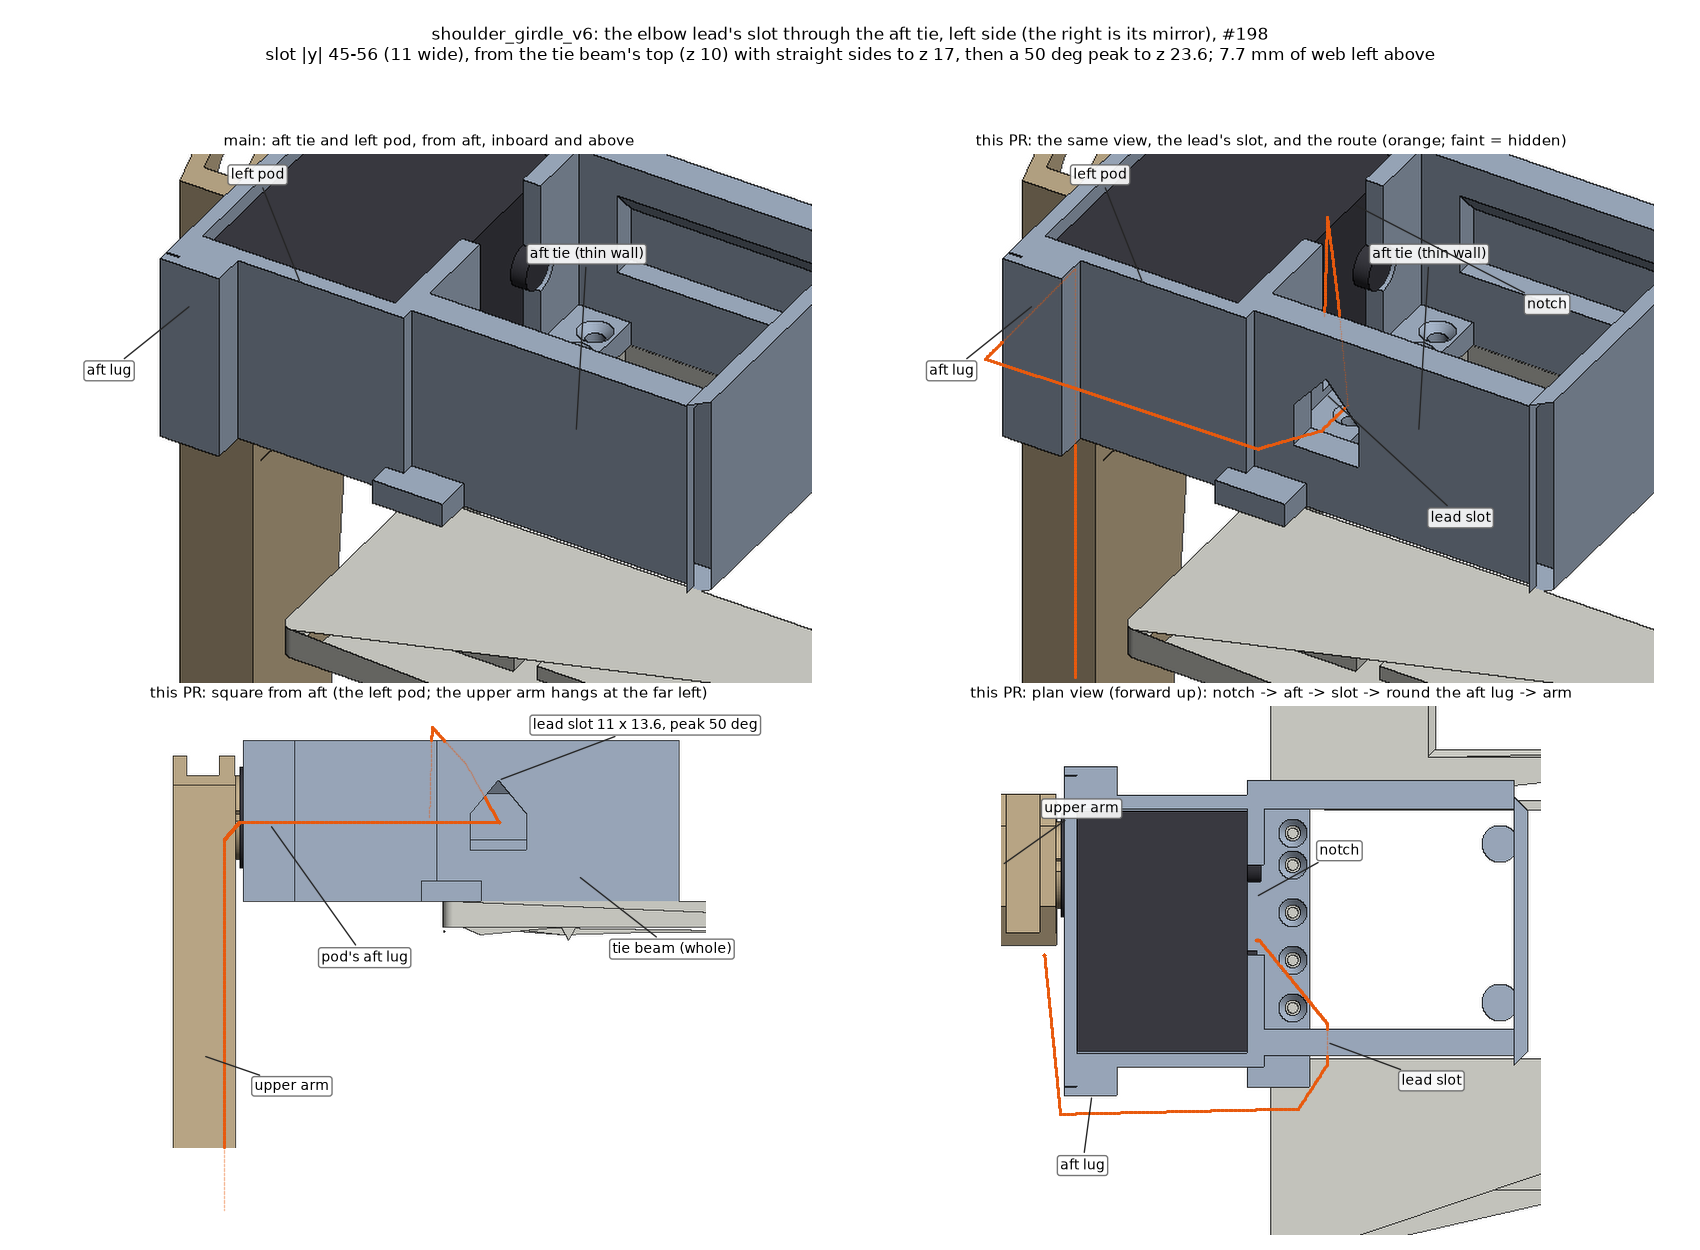
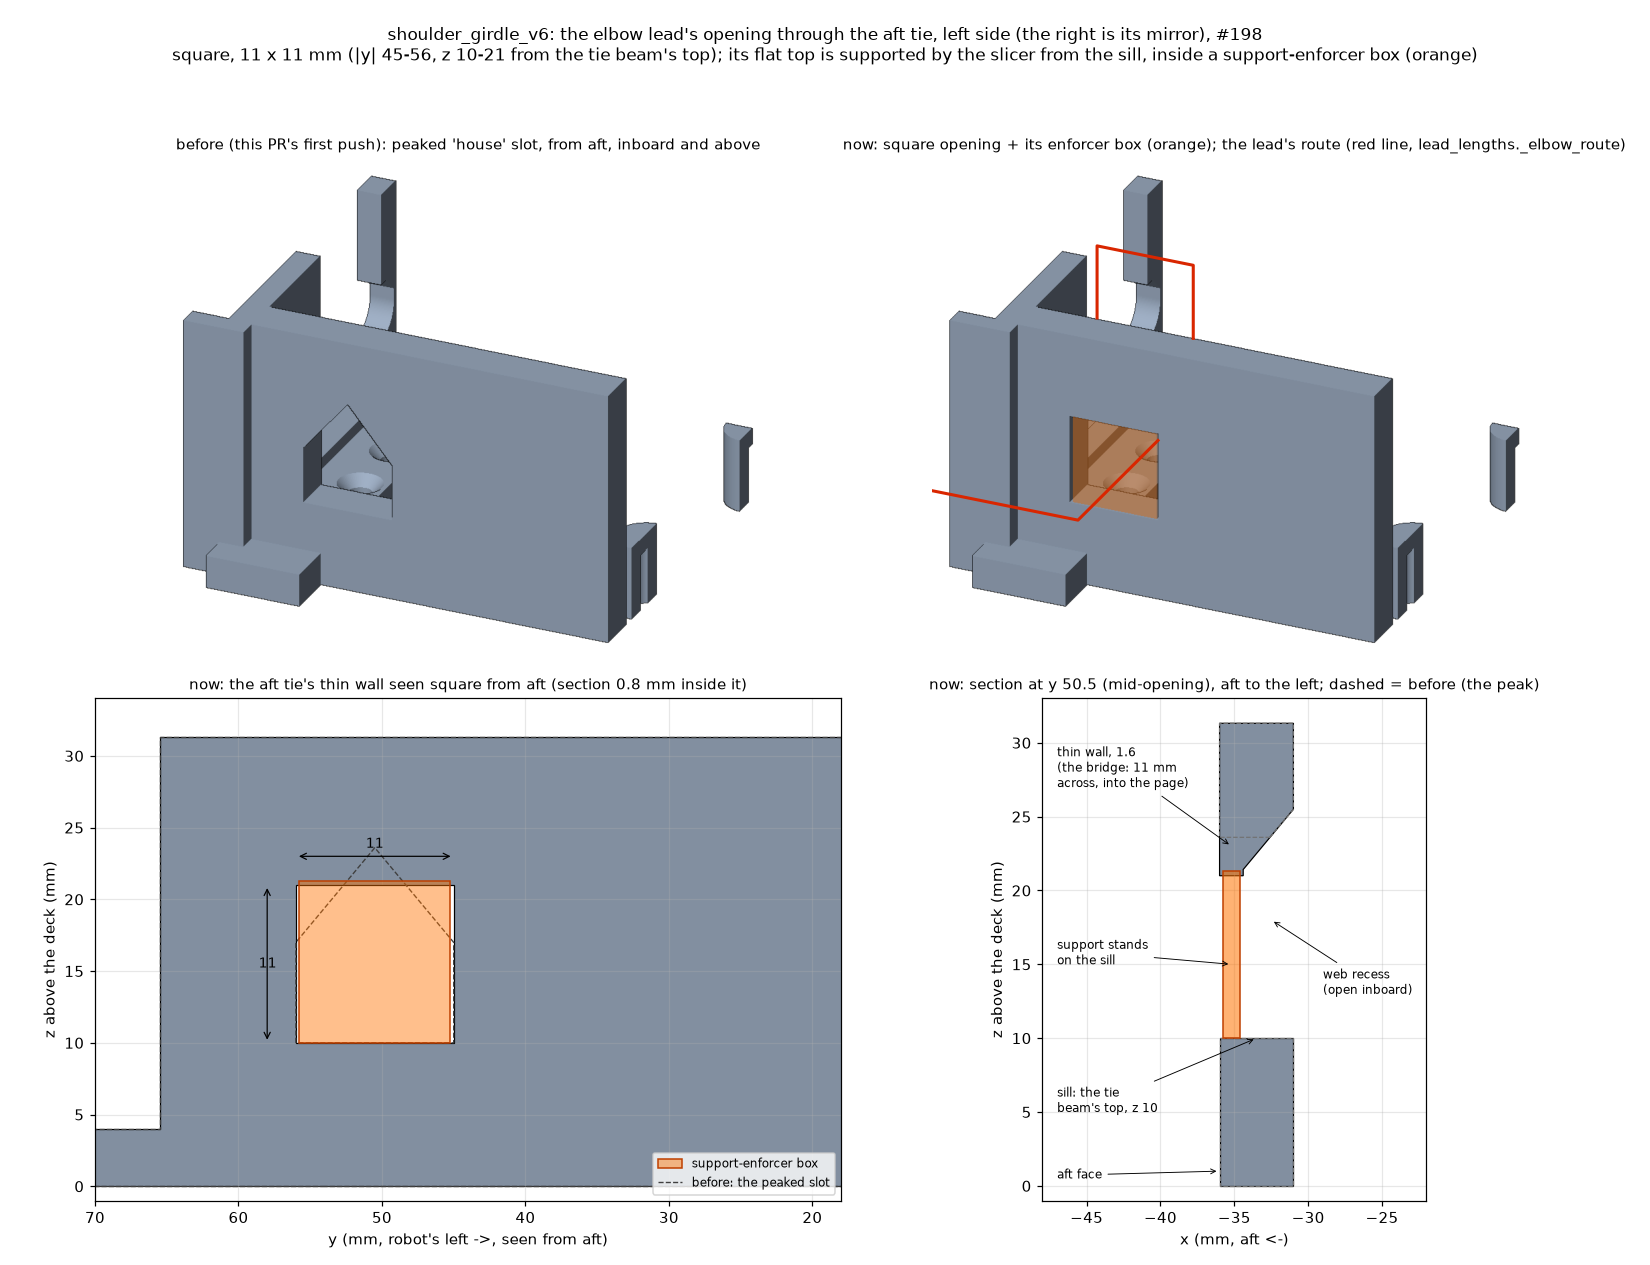
Girdle: the elbow lead's opening square, supported inside enforcer boxes (#198)
Tom on #228 (2026-11-06): "make the opening square, not 'house shaped' and
use the bridging mask for support of the opening". The aft tie's opening
beside each pod is now 11 x 11 mm (|y| 45-56, z 10-21 from the tie beam's
top), a hole through the 1.6 mm thin wall alone (its top stays under the web
recess's roof). Its flat top spans 11 mm, more than a bridge, so the slicer
supports it from the opening's sill inside one support-enforcer box per side
(shoulder_girdle_v6.support_enforcers(), in print_settings.json, pinned by
tests/test_slice.py), the torso's and yaw carrier's convention: manual
supports, snug, not build plate only. The girdle_neck plate's other parts
share those settings with no box, so they print unsupported. The lead's
route and length are unchanged (floor and width are the same).

diff --git a/cad/v6/shoulder_girdle_v6.py b/cad/v6/shoulder_girdle_v6.py
@@ -123,13 +123,20 @@ IDENT = np.eye(3)
 RY_YDOWN = np.array([(1, 0, 0), (0, 0, 1), (0, -1, 0)], float)       # model +Y -> print -Z
 PRINT_ORIENT = {"shoulder_girdle_v6": (IDENT, "base down on the deck face, walls up"),
                 "shoulder_cheek_v6": (RY_YDOWN, "flat, outer face down (the left pod's pose; x2)")}
-# NO SUPPORTS (Tom, 2026-11-01: "let's get rid of the windows front and back.
+# SUPPORTS IN THE ELBOW LEAD'S OPENINGS ONLY. The trapezius webs are thin
+# walls (Tom, 2026-11-01: "let's get rid of the windows front and back.
 # Instead let's just put a thin wall there so we don't have to worry about
-# print supports"). The four trapezius-web windows were 34 mm flat-topped
-# spans, supported inside enforcer boxes; they are thin walls now, the neck
-# tube's aft window is gone, and every other roof on the part -- the web
-# recesses behind those walls, the platform detents -- is a 50 deg slope.
-SUPPORT_NOTE = None
+# print supports"), the neck tube's aft wall is closed, and every other roof
+# on the part -- the web recesses behind those walls, the platform detents --
+# is a 50 deg slope. The one flat ceiling is the top of the elbow lead's
+# square opening through the aft tie (lead_slot(), #198): 11 mm across, wider
+# than a bridge, so the slicer supports it from the opening's sill inside one
+# enforcer box per side (support_enforcers(), Tom, 2026-11-06: "use the
+# bridging mask for support of the opening"); nothing is modelled for it.
+SUPPORT_NOTE = ("supports on, manual: only inside the two support-enforcer boxes "
+                "(support_enforcers()), under the flat top of the elbow lead's square "
+                "opening through the aft tie, standing on the opening's sill (the tie "
+                "beam's top)")
 ROOF_RISE = 1.2   # a self-supporting roof rises 1.2 mm per mm it overhangs: 50 deg, clear of
                   # the 45 deg line check_printability calls one way or the other on rounding
 
@@ -166,18 +173,28 @@ TIE_H = 10.0
 WEB_T = 1.6                           # the trapezius web's thin wall, flush with the band's OUTER face
 WEB_REC_Y = (22.0, 56.0)              # the lightening recess behind it (|y| band) ...
 WEB_REC_TOP = 25.5                    # ... from the beam's top up to here at the open (inner) face
-# the elbow lead's slot through the AFT tie's web (#198; Tom, 2026-11-04: "aft
-# is correct"). The shoulder-to-elbow lead rises out of the inboard wall's
-# notch (x -12..0), runs aft inside the girdle to the tie, out through this
-# slot, round the pod's aft lug and down the back of the upper arm's web. It
-# sits at the recess's outboard end, so its outboard face is the recess's own
-# and the 6.5 mm of web between it and the pod's inboard wall stays whole;
-# its floor is the beam's top, so the beam stays whole too. The lead's plug
-# has to pass (whichever end is threaded through): D.WIRE_PLUG_W 9 wide, with
-# the arm's own 11 mm cable-window size across the slot.
+# the elbow lead's opening through the AFT tie's web (#198; Tom, 2026-11-04:
+# "aft is correct"). The shoulder-to-elbow lead rises out of the inboard
+# wall's notch (x -12..0), runs aft inside the girdle to the tie, out through
+# this opening, round the pod's aft lug and down the back of the upper arm's
+# web. It sits at the recess's outboard end, so its outboard face is the
+# recess's own and the 6.5 mm of web between it and the pod's inboard wall
+# stays whole; its floor is the beam's top, so the beam stays whole too. The
+# lead's plug has to pass (whichever end is threaded through): D.WIRE_PLUG_W
+# 9 wide, with the arm's own 11 mm cable-window size across the opening. It
+# is SQUARE, 11 x 11 (Tom, 2026-11-06: "make the opening square, not 'house
+# shaped'"): its flat top is an 11 mm span in the thin wall, supported from
+# the sill in print (SUPPORT_NOTE, support_enforcers()).
 LEAD_SLOT_Y = (WEB_REC_Y[1] - 11.0, WEB_REC_Y[1])   # |y| 45 .. 56
-LEAD_SLOT_EAVE = 17.0                 # straight sides from the beam's top (TIE_H) to here, then a
-                                      # ROOF_RISE peak (+6.6, to 23.6): 7.7 mm of web left above it
+LEAD_SLOT_Z = (TIE_H, TIE_H + 11.0)                 # z 10 .. 21: square
+# its top stays under the recess's roof where that roof meets the thin wall
+# (25.5 - 1.2 * 3.4 = 21.42), so the opening is a hole in the thin wall alone
+# and its ceiling is that wall's 1.6 mm, not a tunnel through the band
+assert LEAD_SLOT_Z[1] < WEB_REC_TOP - ROOF_RISE * (TIE_X[1] - TIE_X[0] - WEB_T), \
+    "the elbow lead's opening would cut into the web recess's roof"
+BRIDGE_OK = 8.0        # check_printability: a ceiling this wide bridges with no support
+ENF_INSET = 0.25       # an enforcer box keeps this far inside an opening's faces (torso_v8's)
+ENF_INTO = 0.3         # ... and reaches this far into its ceiling
 # No flare under the pod's outboard edge any more (Tom, 2026-11-01): it was
 # a 45 deg chamfer for the one-piece girdle, which printed that edge base-down;
 # the cheek prints flat, and the edges stay square.
@@ -378,16 +395,29 @@ def _cheek_left():
 
 
 def lead_slot(sgn):
-    """The elbow lead's slot (#198) through the whole aft tie band, +y side
-    (sgn +1) or -y: straight sides from the beam's top to LEAD_SLOT_EAVE, then
-    a peaked top rising ROOF_RISE on both sides, so it prints unsupported.
-    Behind the thin wall it opens into the web's lightening recess, and above
-    the recess's sloped roof it runs through the band as a short tunnel."""
-    y0, y1 = LEAD_SLOT_Y
-    peak = LEAD_SLOT_EAVE + ROOF_RISE * (y1 - y0) / 2
-    prof = [(sgn * y0, TIE_H), (sgn * y1, TIE_H), (sgn * y1, LEAD_SLOT_EAVE),
-            (sgn * (y0 + y1) / 2, peak), (sgn * y0, LEAD_SLOT_EAVE)]
-    return parts.wedge_x(prof, TIE_X[0] - 1.0, TIE_X[1] + 1.0)
+    """The elbow lead's square opening (#198) through the aft tie's thin wall,
+    +y side (sgn +1) or -y: LEAD_SLOT_Y across, LEAD_SLOT_Z from the beam's
+    top up. The cut runs through the whole band, but behind the thin wall it
+    is all the web recess's air, so it opens only the wall; its flat top is
+    supported in print (support_enforcers())."""
+    y0, y1 = sorted((sgn * LEAD_SLOT_Y[0], sgn * LEAD_SLOT_Y[1]))
+    return parts.box(TIE_X[0] - 1.0, TIE_X[1] + 1.0, y0, y1, *LEAD_SLOT_Z)
+
+
+def support_enforcers():
+    """shoulder_girdle_v6's support-enforcer boxes, model frame (it prints
+    IDENT, base down), rounded as cad/v6/print_settings.json carries them:
+    one per elbow lead opening, whose flat top spans more than a bridge. Each
+    keeps ENF_INSET inside the thin wall's two faces and the opening's sides,
+    stands on the sill (the tie beam's top) and reaches ENF_INTO into the
+    ceiling -- torso_v8's window boxes, the right way up."""
+    assert LEAD_SLOT_Y[1] - LEAD_SLOT_Y[0] > BRIDGE_OK
+    x0, x1 = TIE_X[0] + ENF_INSET, TIE_X[0] + WEB_T - ENF_INSET
+    boxes = []
+    for sgn in (1, -1):
+        y0, y1 = sorted((sgn * (LEAD_SLOT_Y[0] + ENF_INSET), sgn * (LEAD_SLOT_Y[1] - ENF_INSET)))
+        boxes.append([x0, x1, y0, y1, LEAD_SLOT_Z[0], LEAD_SLOT_Z[1] + ENF_INTO])
+    return [[round(v, 2) for v in b] for b in boxes]
 
 
 def shoulder_girdle_v6(pads=True):
@@ -424,8 +454,9 @@ def shoulder_girdle_v6(pads=True):
     # that keeps the weight down. The recess sits above the beam, so the beam
     # stays whole, and its roof is a ROOF_RISE slope rising from the thin wall
     # to the open inner face, so nothing on it needs support. The aft tie's
-    # web keeps one opening, the elbow lead's slot (lead_slot(), #198), at the
-    # recess's outboard end beside each pod; its top is peaked, not flat.
+    # web keeps one opening, the elbow lead's square opening (lead_slot(),
+    # #198), at the recess's outboard end beside each pod; its flat top is
+    # supported in print (support_enforcers()).
     for x0, x1, h, outer in ((CLAV_X[0], CLAV_X[1], CLAV_H, +1), (TIE_X[0], TIE_X[1], TIE_H, -1)):
         p += parts.box(x0, x1, -CLAV_HY, CLAV_HY, 0, h)
         x_mem = x1 - WEB_T if outer > 0 else x0 + WEB_T     # the thin wall's inner face

diff --git a/tests/test_slice.py b/tests/test_slice.py
@@ -381,6 +381,30 @@ def test_torso_window_enforcers_match_the_cad():
             assert z0 == pytest.approx(bb.min.Z - T.ENF_INTO) and z1 == pytest.approx(bb.max.Z)
 
 
+def test_girdle_lead_opening_enforcers_match_the_cad():
+    """The girdle's boxes are shoulder_girdle_v6's: one per elbow lead
+    opening through the aft tie's thin wall (#198), whose flat top spans more
+    than a bridge, each inside the wall's faces and the opening's sides, from
+    the sill into the ceiling. The neck floor and the cheeks share the
+    girdle_neck plate's manual supports with no box, so they print unsupported."""
+    import shoulder_girdle_v6 as SG
+    entry = SPEC["parts"]["shoulder_girdle_v6"]
+    assert entry["supports"] and entry["settings"]["support_type"] == "normal(manual)"
+    assert entry["settings"]["support_on_build_plate_only"] == "0"     # it stands on the sill
+    boxes = [e["box"] for e in entry["support_enforcers"]]
+    assert boxes == SG.support_enforcers() and len(boxes) == 2
+    y0, y1 = SG.LEAD_SLOT_Y
+    z0, z1 = SG.LEAD_SLOT_Z
+    assert y1 - y0 > SG.BRIDGE_OK and z1 - z0 == pytest.approx(y1 - y0)   # square, wider than a bridge
+    for (bx0, bx1, by0, by1, bz0, bz1), s in zip(boxes, (1, -1)):
+        assert SG.TIE_X[0] < bx0 < bx1 < SG.TIE_X[0] + SG.WEB_T             # inside the thin wall
+        assert y0 < s * by0 < y1 and y0 < s * by1 < y1 and by0 < by1
+        assert bz0 == pytest.approx(z0) and bz1 == pytest.approx(z1 + SG.ENF_INTO)
+    for part in ("neck_floor", "shoulder_cheek_v6"):
+        assert "support_enforcers" not in SPEC["parts"][part]
+    assert S.job_entry(SPEC, "girdle_neck")["settings"]["support_type"] == "normal(manual)"
+
+
 def test_forearm_pad_enforcers_match_the_cad():
     """The forearms' boxes are arm_v6's: one per elbow pad, across its tine,
     from the bed to where the pad's arc is steeper than the spec's support

diff --git a/cad/PRINT_LIST.md b/cad/PRINT_LIST.md
@@ -57,7 +57,7 @@ the slicer; see [Supports](#supports-are-the-slicers-job).
 | `head_shell` | 1 | 26.1 | 62 × 60 × 50 | base (horn plate) down; the dome is ≥ 45° | none expected | from `head.py` |
 | `head_face` | 1 | 8.6 | 62 × 56 × 6 | flat, camera bosses up | no | |
 | `neck_floor` | 1 | 4.0 | 46 × 45 × 5 | flat, bottom face down, pads and lugs up | no | the neck servo's seat (#90): screwed up into the neck tube's four bosses; the stator screws go up through it |
-| `shoulder_girdle_v6` | 1 | 88.1 | 200 × 62 × 33 | base down | no | carries both shoulder servos and the neck tube (with the four bosses for `neck_floor`); each pod is open outboard until its cheek goes on; the trapezius webs are thin walls, not windows, but for the elbow lead's peaked slot through the aft tie beside each pod |
+| `shoulder_girdle_v6` | 1 | 88.1 | 200 × 62 × 33 | base down | **in the elbow lead's two openings only**: an enforcer box each in `print_settings.json` (manual supports, snug, from the sill) | carries both shoulder servos and the neck tube (with the four bosses for `neck_floor`); each pod is open outboard until its cheek goes on; the trapezius webs are thin walls, not windows, but for the elbow lead's square opening (11 × 11 mm) through the aft tie beside each pod |
 | `shoulder_cheek_v6` | 2 | 3.0 | 58 × 30 × 2.4 | flat, outer face down | no | one part for both pods: each pod's outboard grip plate, screwed to the pod's end lugs once the servo is in ([assembly §11c](../docs/assembly.md)) |
 | `arm_upper_v6_L`, `_R` | 1 + 1 | 27.8 | 169 × 38 × 29 | on its back, web face down | no (manual supports with no enforcer box, to share the `arms` plate) | a mirror pair, L / R debossed on the outboard rail; open-front U with two end walls; grips the elbow servo |
 | `arm_head_insert_v6_L`, `_R` | 1 + 1 | 1.8 | 30 × 9 × 24 | flat, outboard face down | no | a mirror pair, not labelled (its lip goes on the horn plate's side); glued into the upper arm's head, closing its U at the front and top ([assembly §11d](../docs/assembly.md)); its own `arm_head_inserts` plate |
@@ -157,11 +157,20 @@ the slicer; see [Supports](#supports-are-the-slicers-job).
     unsupported; auto supports would put a column under the shoulder head.
 - **`shoulder_girdle_v6`**
   - It is 200 mm long, so **centre it on the bed**.
-  - **No supports.** The trapezius webs are thin walls (no windows), and every
-    roof on the part (the web recesses, the platform detents, the peaked top of
-    the elbow lead's slot through the aft tie) rises at 50°; the neck tube's
-    aft wall is closed. The `girdle_neck` plate (the girdle, the neck
-    floor and the cheek twice, square in one row) prints with supports off: 3 h 00 m, 92 g.
+  - **Supports in the elbow lead's two openings only.** Each opening through
+    the aft tie's thin wall is square, 11 × 11 mm, and its flat top spans
+    11 mm, more than a bridge: it is supported from the opening's sill (the tie
+    beam's top), inside one enforcer box per opening
+    (`shoulder_girdle_v6.support_enforcers()`, pinned by `tests/test_slice.py`;
+    manual supports, snug, not build plate only). Clear the support out of
+    each opening after the print. The rest of the part needs none: the
+    trapezius webs are otherwise thin walls, every other roof (the web
+    recesses, the platform detents) rises at 50°, and the neck tube's aft wall
+    is closed. The `girdle_neck` plate (the girdle, the neck floor and the
+    cheek twice, square in one row) slices with those manual supports; the
+    neck floor and the cheeks have no box, so they print unsupported. The
+    plate took 3 h 00 m and 92 g with supports off; it has not been re-sliced
+    with the two openings' supports.
   - Print the two cheeks on the same plate (`girdle_neck`), outer face down:
     no supports. Both are the same part, square-edged: it fits either pod.
 

diff --git a/DESIGN.md b/DESIGN.md
@@ -506,16 +506,18 @@ target.
 
 ### 5.4 Arms and shoulder girdle
 
-- **`shoulder_girdle_v6`** (one print, 98 g, 200 × 62 × 33 mm, square-edged, no supports)
+- **`shoulder_girdle_v6`** (one print, 98 g, 200 × 62 × 33 mm, square-edged, slicer supports in the elbow lead's two openings only)
   sits on the deck and holds both shoulder servos in pods open at the top and
   outboard, plus the neck servo's tube, whose side walls carry four bosses for
   the neck floor (§5.5). Ten M2.5 × 8 flat-heads into deck pilots on two edge
   rails. The neck is built into the girdle on the bench first: the neck floor's
   screws are under it once it is on the deck. The trapezius webs from the tube
   out to the pods are thin walls, with one opening on each side: the **elbow
-  lead's slot** through the aft tie beside the pod (|y| 45–56, from the tie
-  beam's top at 10 mm to a 50° peak at 23.6 mm, so it prints unsupported and
-  passes the lead's plug). The shoulder-to-elbow lead rises out of the pod's
+  lead's opening** through the aft tie beside the pod, square, 11 × 11 mm
+  (|y| 45–56, z 10–21 from the tie beam's top), which passes the lead's plug.
+  Its flat top is supported by the slicer from the opening's sill, inside an
+  enforcer box, and the support is cleared out after printing
+  ([PRINT_LIST](cad/PRINT_LIST.md)). The shoulder-to-elbow lead rises out of the pod's
   inboard notch, runs aft through it, round the pod's aft lug and down the
   back of the upper arm (#198).
 - **Each pod's outboard grip plate is its own print, the cheek**

diff --git a/docs/assembly.md b/docs/assembly.md
@@ -734,8 +734,9 @@ outboard, with the cheek off.
 1. **Plug its leads first.** They rise from the connector trench on the idler
    face and leave up through the open-topped notch in the pod's inboard wall.
    One of them is the shoulder-to-elbow lead (about 380 mm, [wiring.md](wiring.md#per-hop-lead-lengths-from-the-v6-cad-arms1)): run it aft
-   inside the girdle and out through the slot in the aft tie beside the pod,
-   plug first, and leave it hanging behind the pod for the arm.
+   inside the girdle and out through the square opening in the aft tie beside
+   the pod (its print support cleared out), plug first, and leave it hanging
+   behind the pod for the arm.
 2. **Push the servo in along the shoulder axis from outboard**, **no idler
    disc** (§2): case length fore-aft with the cable end aft, width vertical,
    horn outboard. Rest it on the pod's floor, between the end walls, and slide
@@ -847,7 +848,7 @@ number still owed.
   +Y, and rise through the deck aperture beside the tube.
 - **Shoulder to elbow:** the lead rises out of the notch in the pod's inboard
   wall, runs aft inside the girdle and leaves through the slot in the aft
-  tie's web beside the pod (11 mm wide, peaked top; the plug passes), then
+  tie's web beside the pod (square, 11 × 11 mm; the plug passes), then
   goes round the pod's aft lug and down the back of the upper arm's web to
   the window above the elbow servo's case (#198).
 
